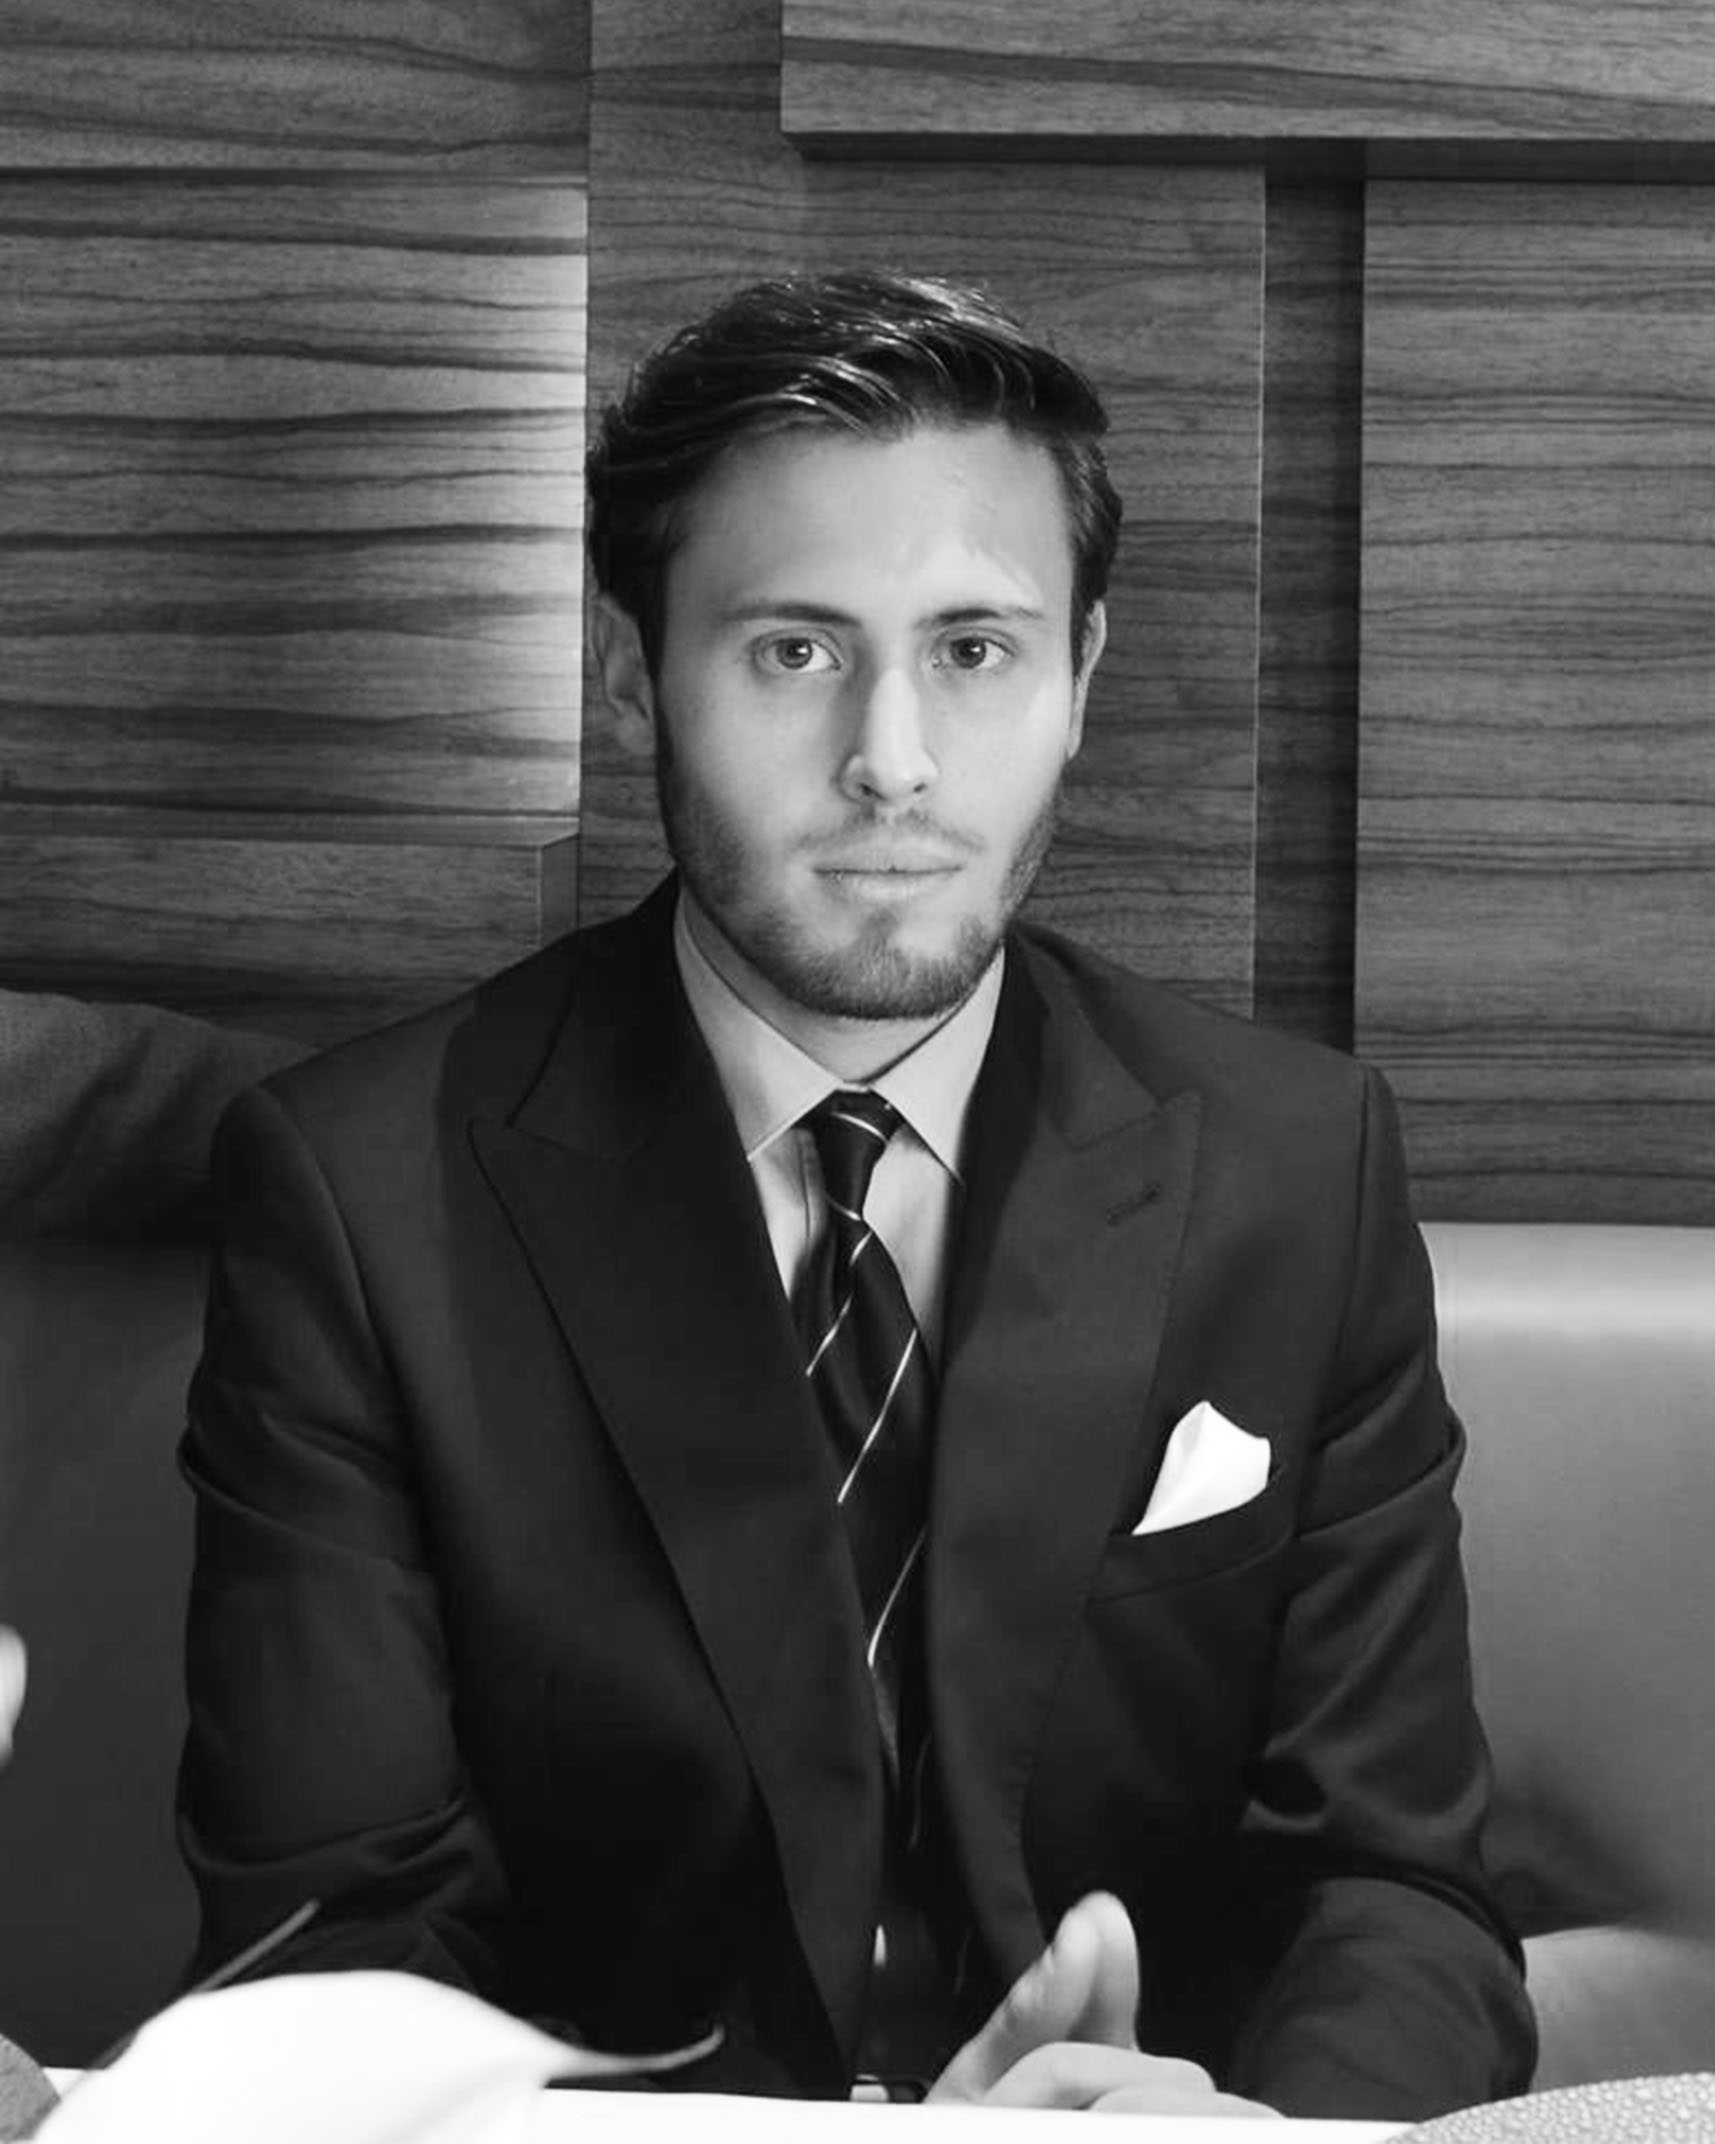
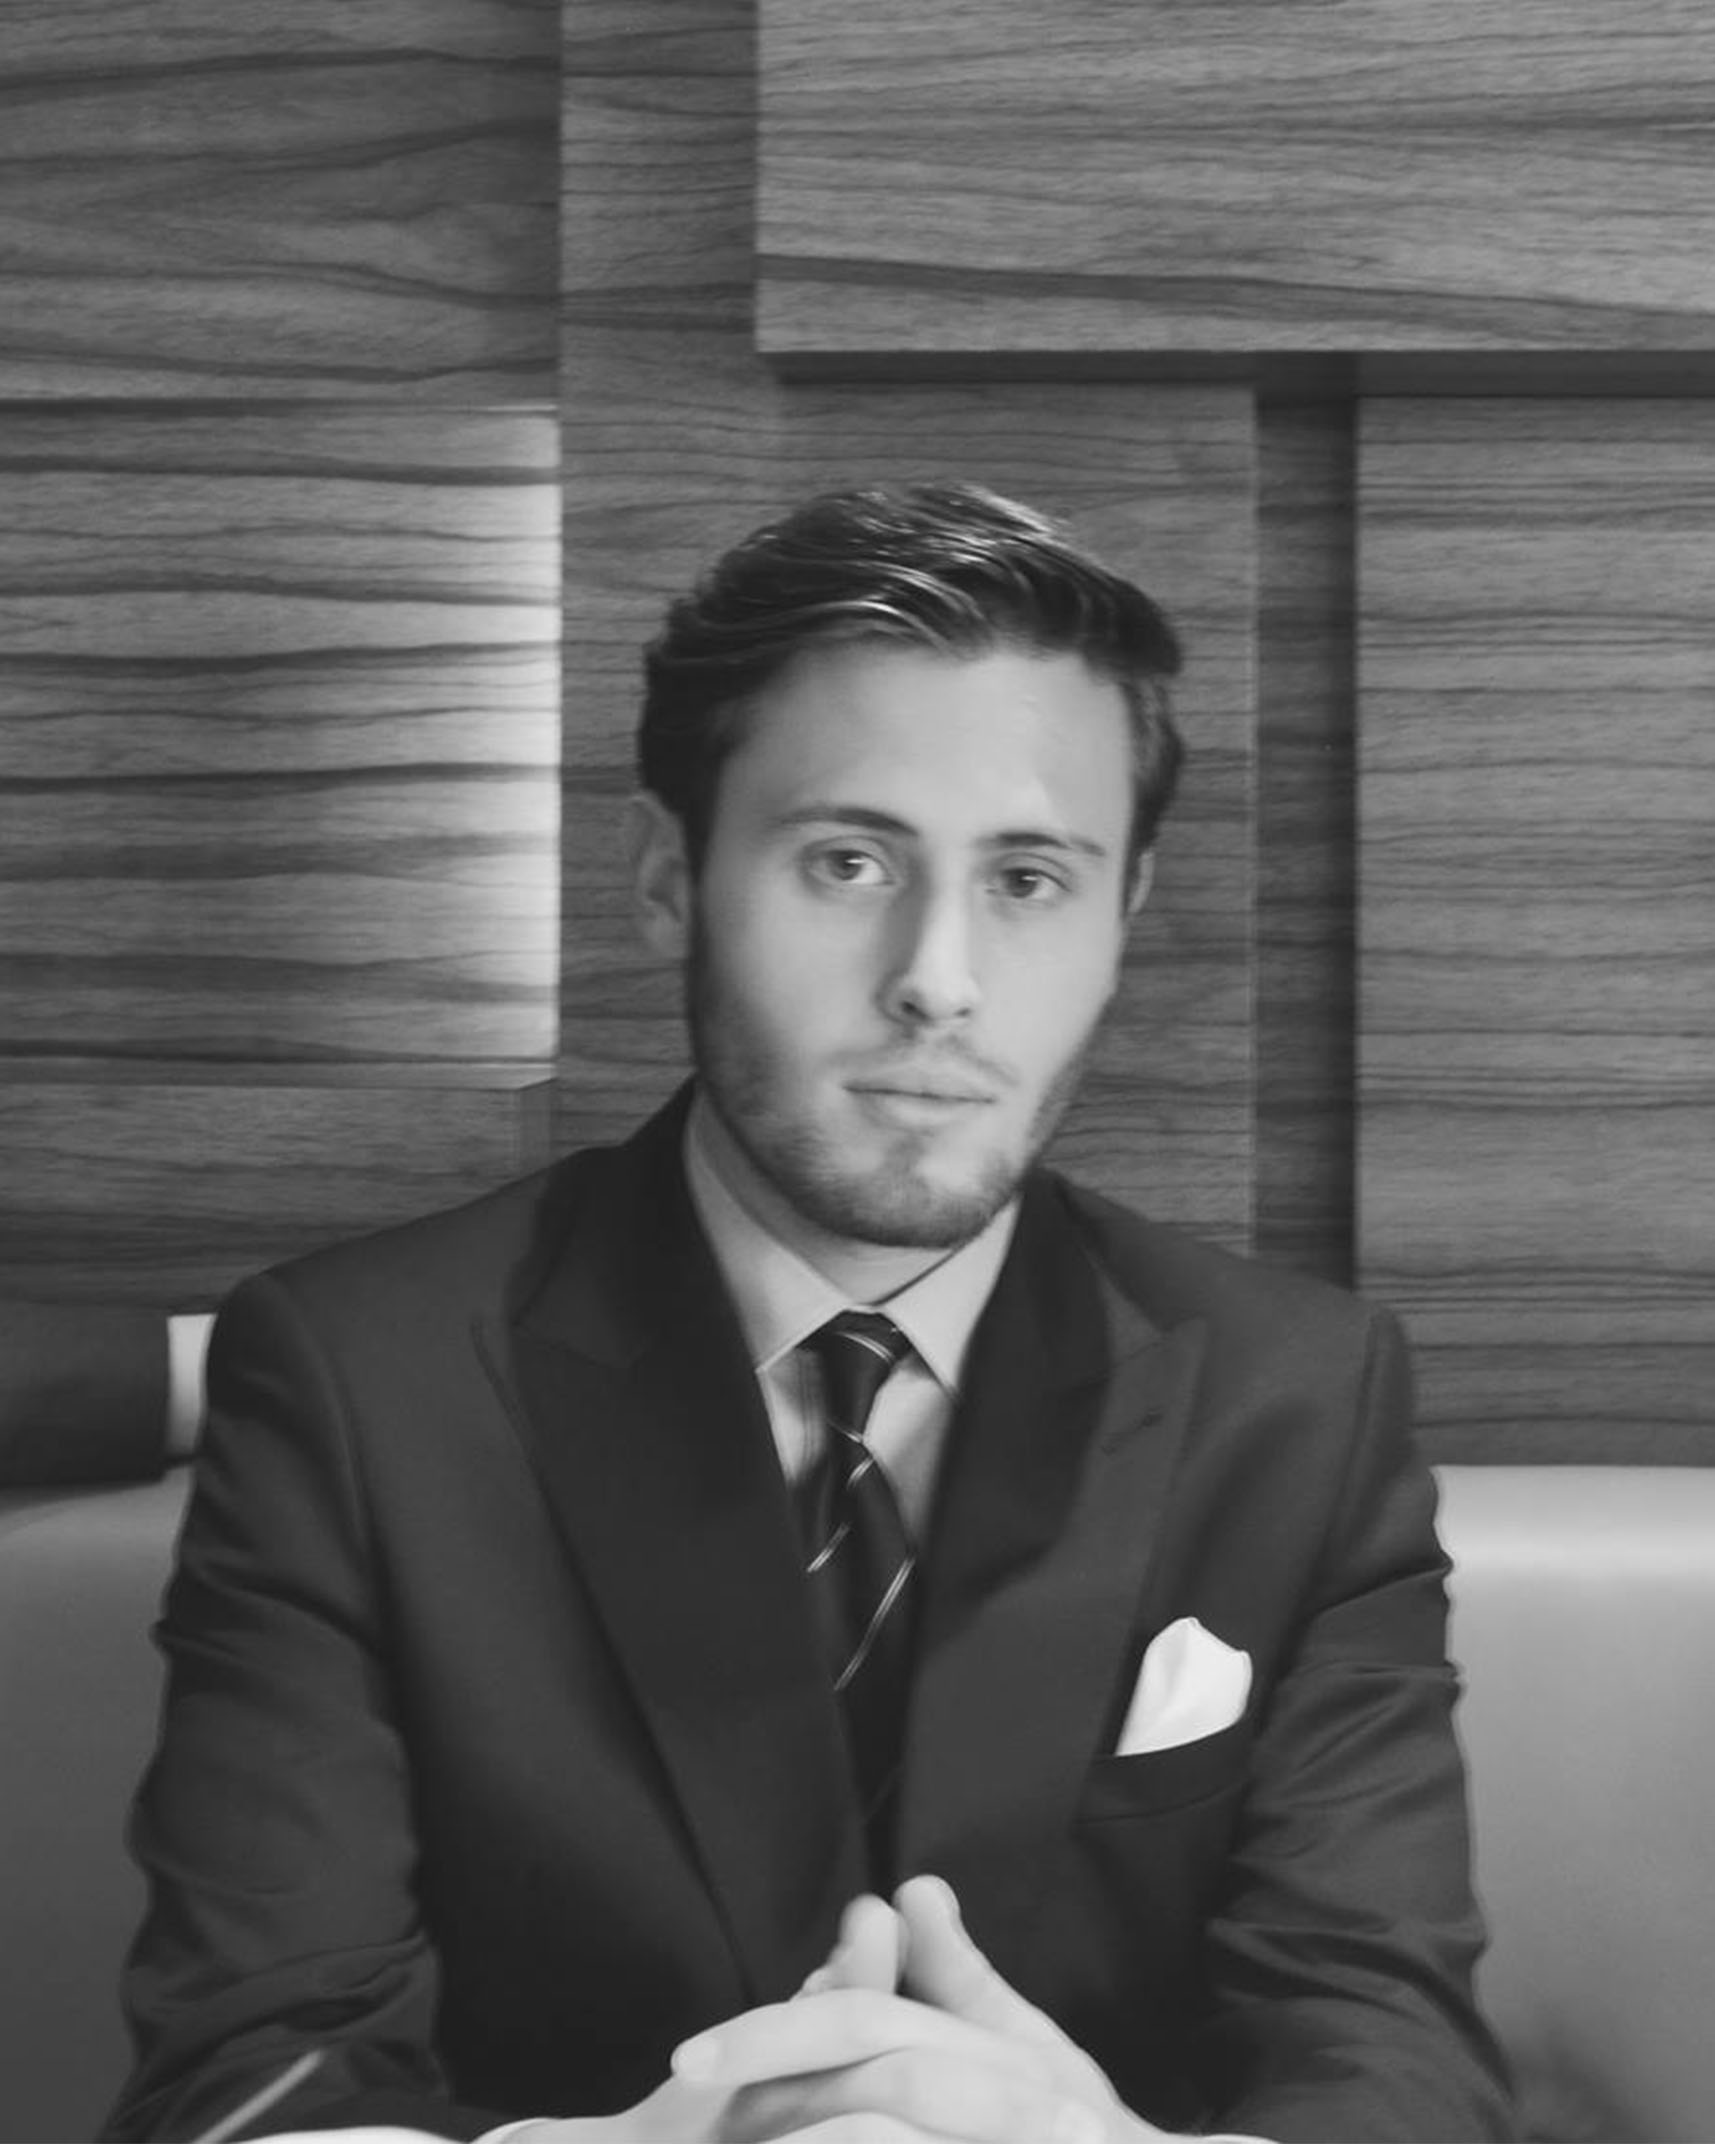
Blurred images

diff --git a/resources/views/user/student.blade.php b/resources/views/user/student.blade.php
@@ -10,7 +10,7 @@
             <span class="profile-date"><a href="{{ route('calendar', Auth::user()->id) }}">{{ strtoupper(date('h:i A D j M Y')) }}</a></span>
          </div>
 
-         <div class="row account-resume" style="background: url(images/annexe_test.jpg) center center no-repeat; background-size: cover;">
+         <div class="row account-resume" style="background: url(images/annexe_test_blur.jpg) center center no-repeat; background-size: cover;">
             <div class="columns medium-3 medium-uncentered small-centered picture-column small-7">
                @if(file_exists("uploads/pp/".$user->id.".png"))
                   <img class="profile-picture" src=" uploads/pp/{{$user->id}}.png" alt="" />

diff --git a/resources/views/errors/404.blade.php b/resources/views/errors/404.blade.php
@@ -33,7 +33,7 @@
          @endif
 
       <div id="fullpage">
-      <div class="section" style="background: url(images/error404.jpg) center center no-repeat; background-size: cover;">@include('index.section-error')</div>
+      <div class="section" style="background: url(images/error404_test.jpg) center center no-repeat; background-size: cover;">@include('index.section-error')</div>
       <div class="section fp-auto-height">@include('layouts.master.footer')</div>
    	</div>
       <div id="extraModal" class="reveal-modal" data-reveal aria-hidden="true" role="dialog"></div>
